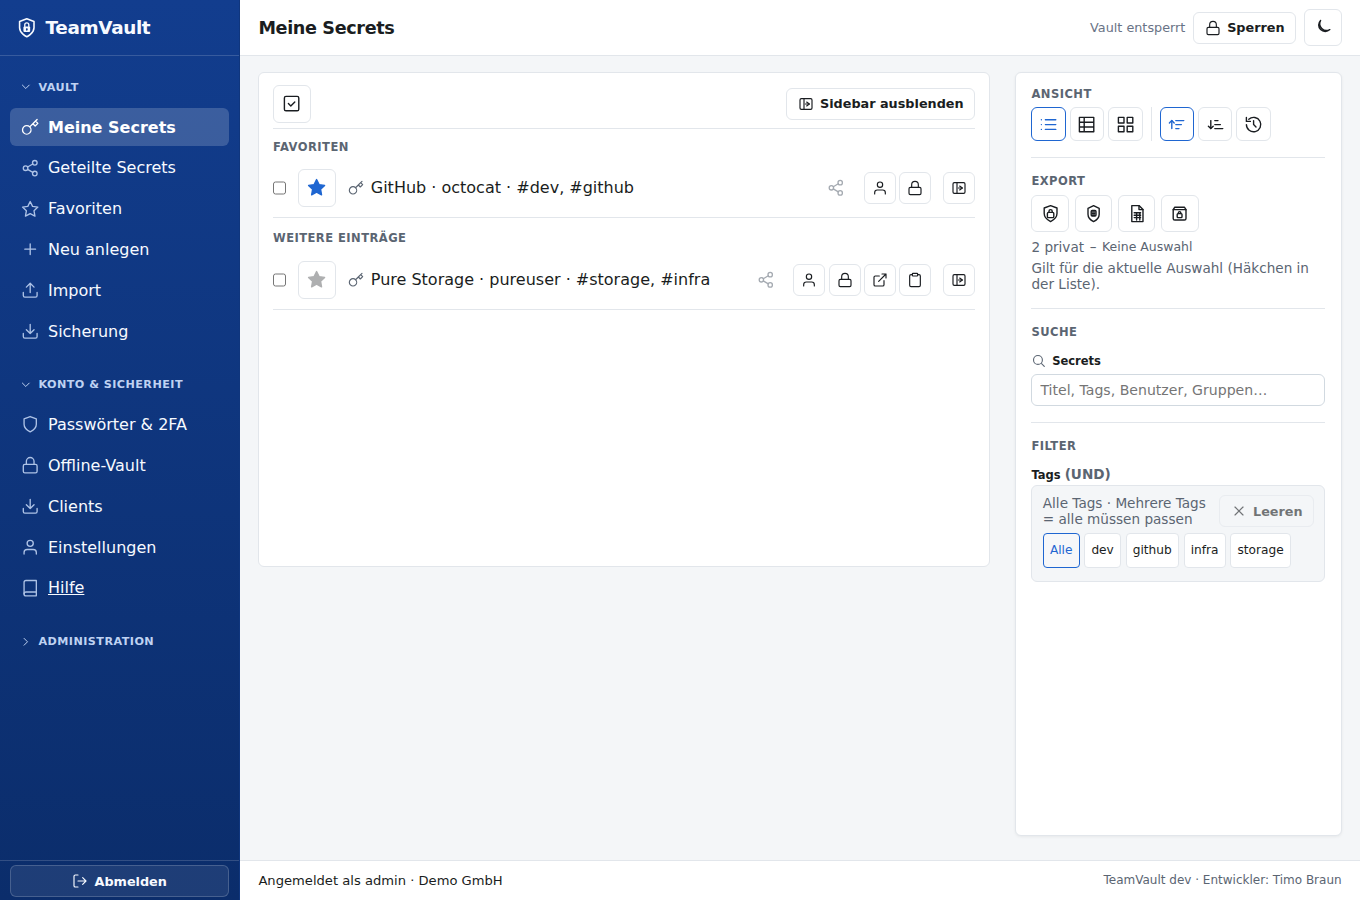
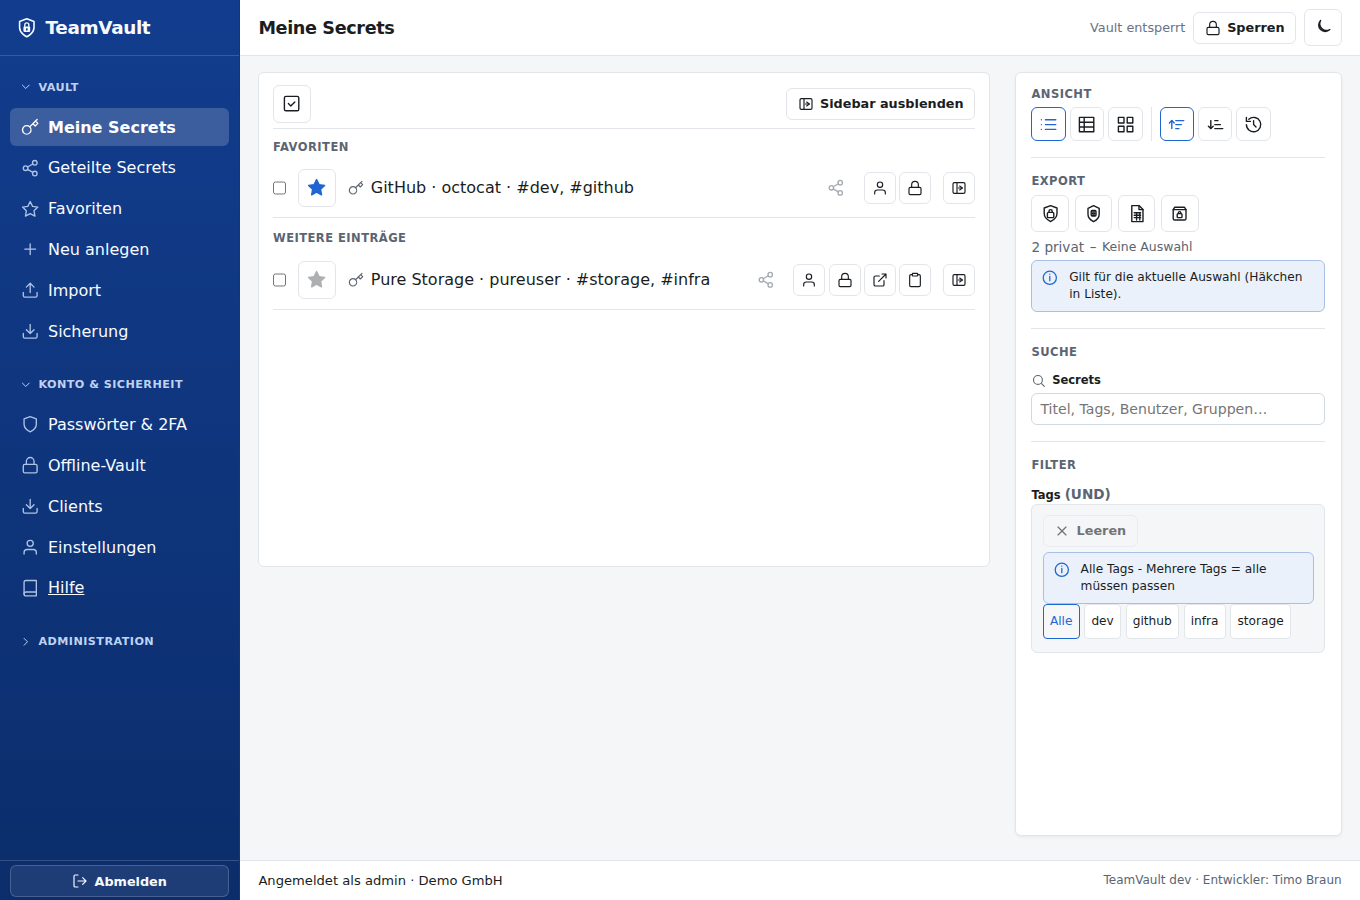
Render sidebar hint boxes and refresh vault screenshots

Changed region(s): [[0.7412, 0.28, 0.9574, 0.7156]]

diff --git a/web/static/app.js b/web/static/app.js
@@ -2155,7 +2155,7 @@ function renderApp(app) {
                       <span class="hint secrets-status-sep">–</span>
                       <span class="hint secrets-actions-meta" id="selCount">Keine Auswahl</span>
                     </div>
-                    <p class="hint secrets-export-note">Gilt für die aktuelle Auswahl (Häkchen in der Liste).</p>
+                    ${hintBox("Gilt für die aktuelle Auswahl (Häkchen in Liste).", { className: "hint-box-compact secrets-export-note", id: "sExportSummary" })}
                     <div class="secrets-load-more" id="sLoadMoreWrap" hidden>
                       <p class="hint" id="sLoadMoreHint"></p>
                       <button type="button" class="btn-ghost btn-sm" id="sMore">Weitere laden</button>
@@ -2171,9 +2171,9 @@ function renderApp(app) {
                     <label>Tags <span class="hint">(UND)</span></label>
                     <div class="tag-filter panel-inset" id="stagFilter">
                       <div class="tag-filter-head">
-                        <p class="hint tag-filter-hint" id="stagSummary">Alle Tags</p>
                         <button type="button" class="btn-ghost btn-sm btn-with-ico tag-filter-clear" id="stagClear" title="Tag-Filter leeren" aria-label="Tag-Filter leeren">${btnLabel("close", "Leeren")}</button>
                       </div>
+                      ${hintBox("Alle Tags - Mehrere Tags = alle müssen passen", { className: "hint-box-compact tag-filter-hint-box", id: "stagSummary" })}
                       <div id="stagOptions" class="tag-filter-options tags"></div>
                     </div>
                   </div>
@@ -4372,9 +4372,7 @@ ${escHtml(apiCmd)}</code>
     const clear = n.querySelector("#stagClear");
     const cur = vault.tagFilters || [];
     if (summary) {
-      summary.textContent = cur.length
-        ? `${cur.length} Tag${cur.length === 1 ? "" : "s"} aktiv · Mehrere Tags = alle müssen passen`
-        : "Alle Tags · Mehrere Tags = alle müssen passen";
+      setHintBox(summary, "Alle Tags - Mehrere Tags = alle müssen passen");
     }
     if (clear) clear.disabled = !cur.length;
   }

diff --git a/web/static/styles.css b/web/static/styles.css
@@ -1033,13 +1033,27 @@ h1 .heading-ico,
   margin: 0.35rem 0 0;
   font-size: 0.78rem;
 }
-.secrets-export-note {
-  margin: 0.35rem 0 0;
-}
 .secrets-actions-tools {
   display: flex;
   flex-wrap: wrap;
   gap: 0.35rem;
+}
+.secrets-export-note,
+.tag-filter-hint-box {
+  margin: 0.35rem 0 0;
+}
+.secrets-sidebar-section .hint-box-compact {
+  margin-bottom: 0;
+  padding: 0.45rem 0.55rem;
+  font-size: 0.76rem;
+}
+.secrets-sidebar-section .hint-box-compact .hint-box-icon {
+  width: 1.1rem;
+  height: 1.1rem;
+}
+.secrets-sidebar-section .hint-box-compact .hint-box-icon .hint-box-ico {
+  width: 1.1rem;
+  height: 1.1rem;
 }
 .secrets-actions-tools + .secrets-sidebar-status .hint { margin: 0; }
 .secrets-actions-tools .btn-icon.active {
@@ -1655,7 +1669,6 @@ body.admin-modal-open { overflow: hidden; }
   gap: 0.5rem;
   margin-bottom: 0.35rem;
 }
-.tag-filter-hint { margin: 0; }
 .tag-filter-clear {
   flex-shrink: 0;
   padding-block: 0.2rem;
